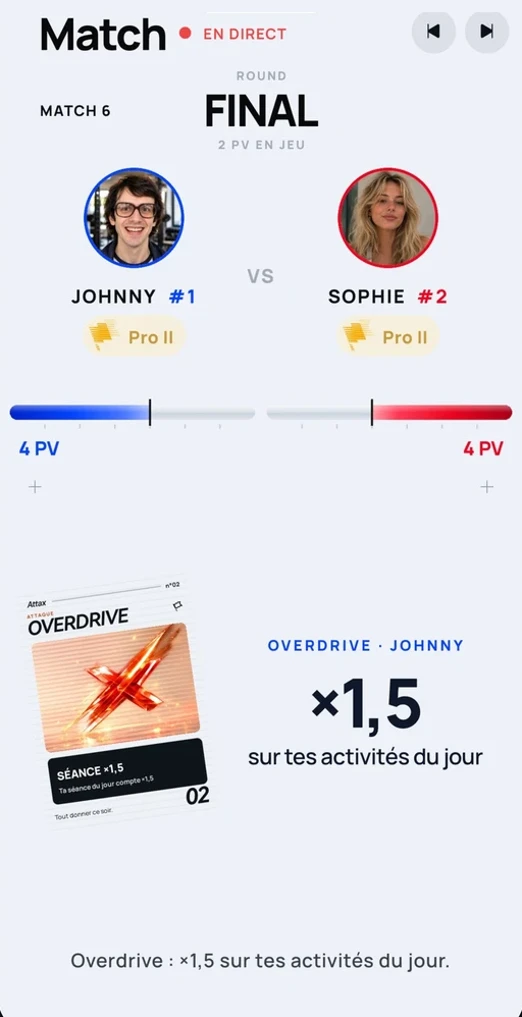
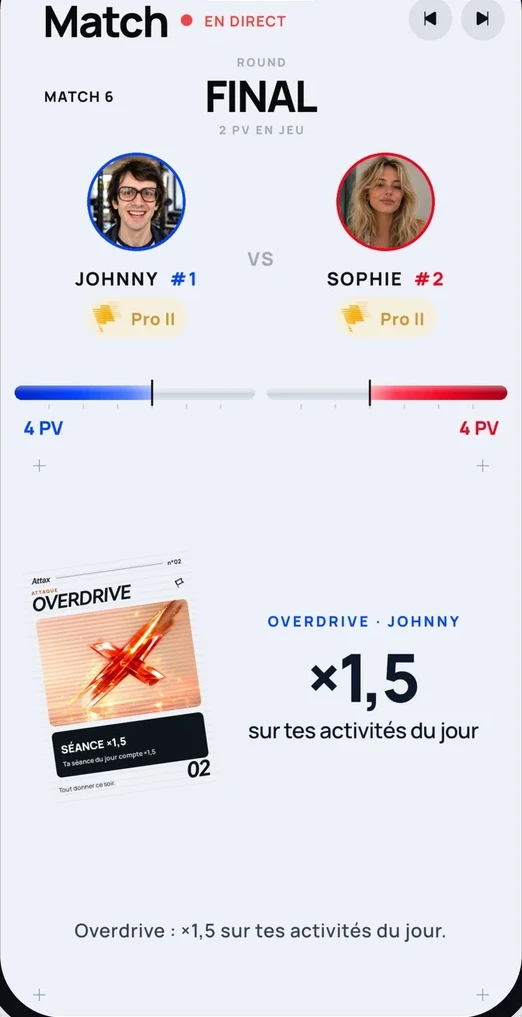
Une journée : téléphone centré et plus petit (68 % de l'écran, sous la nav), moments alternés gauche / droite, frise sous le téléphone (plus de chevauchement avec l'intro), captures recadrées (barre d'onglets à sa place) ; le match : boxeurs fondus dans le bloc, plus de bande vide en bas ; l'arène :

diff --git a/src/app/globals.css b/src/app/globals.css
@@ -998,35 +998,48 @@ footer .p-h2 { font-family: var(--font-manrope), sans-serif; font-weight: 500; f
 .pm .p-dark-cont.p-lines::before { -webkit-mask-image: radial-gradient(ellipse 80% 90% at 50% 40%, #000 30%, transparent 100%); mask-image: radial-gradient(ellipse 80% 90% at 50% 40%, #000 30%, transparent 100%); }
 .pm .cards-section.p-lines::before { -webkit-mask-image: radial-gradient(ellipse 80% 90% at 50% 70%, #000 30%, transparent 100%); mask-image: radial-gradient(ellipse 80% 90% at 50% 70%, #000 30%, transparent 100%); }
 
-/* Une journée : récit collant */
-.pm .story-connect { max-width: 340px; }
-.pm .story { display: grid; grid-template-columns: minmax(0, 1fr) minmax(0, 0.9fr); gap: 4rem; margin-top: 1rem; }
-.pm .story-step { min-height: 72vh; display: flex; flex-direction: column; justify-content: center; padding: 2rem 0; opacity: 0.28; transition: opacity 0.5s cubic-bezier(0.16,1,0.3,1); }
+/* Une journée : récit collant, téléphone centré (68 % de la hauteur d'écran au plus), moments alternés gauche / droite */
+.pm .story-head { max-width: 40rem; margin: 0 auto 3rem; text-align: center; }
+.pm .story-connect { margin: 1.75rem auto 0; max-width: 32rem; padding-top: 1.25rem; border-top: 1px solid var(--line); }
+.pm .story { display: grid; grid-template-columns: minmax(0, 1fr) auto minmax(0, 1fr); column-gap: clamp(2rem, 5vw, 4.5rem); }
+.pm .story-stick { grid-column: 2; grid-row: 1 / span var(--n); }
+.pm .story-sticky { position: sticky; top: calc(84px + (100vh - 84px - 68vh - 4.5rem) / 2); display: flex; flex-direction: column; align-items: center; gap: 1.25rem; }
+.pm .story-step { min-height: 80vh; display: flex; flex-direction: column; justify-content: center; padding: 2rem 0; opacity: 0.2; transition: opacity 0.5s cubic-bezier(0.16,1,0.3,1); }
 .pm .story-step.is-on { opacity: 1; }
+.pm .story-left { grid-column: 1; align-items: flex-end; text-align: right; }
+.pm .story-right { grid-column: 3; align-items: flex-start; text-align: left; }
 .pm .story-time { font-family: var(--font-mono), ui-monospace, monospace; font-size: 0.75rem; letter-spacing: 0.08em; text-transform: uppercase; color: var(--accent); margin: 0 0 0.9rem; }
-.pm .story-title { font-family: var(--font-manrope), sans-serif; font-weight: 500; font-size: clamp(1.9rem, 3.4vw, 3rem); letter-spacing: -0.035em; line-height: 1.05; color: var(--ink); margin: 0 0 1rem; }
-.pm .story-body { max-width: 30rem; font-size: 1rem; }
-.pm .story-stick { position: relative; }
-.pm .story-sticky { position: sticky; top: 12vh; height: 76vh; display: flex; flex-direction: column; align-items: center; justify-content: center; gap: 1.75rem; }
-.pm .story-timeline { display: flex; gap: 0.5rem; width: min(440px, 100%); }
-.pm .story-timeline span { flex: 1; display: flex; flex-direction: column; gap: 0.5rem; font-family: var(--font-mono), ui-monospace, monospace; font-size: 0.625rem; letter-spacing: 0.02em; line-height: 1.3; color: rgba(11,11,12,0.35); white-space: normal; transition: color 0.4s ease; }
+.pm .story-title { font-family: var(--font-manrope), sans-serif; font-weight: 500; font-size: clamp(1.75rem, 2.8vw, 2.5rem); letter-spacing: -0.035em; line-height: 1.05; color: var(--ink); margin: 0 0 0.9rem; }
+.pm .story-body { max-width: 24rem; font-size: 1rem; }
+.pm .story-phone { aspect-ratio: 522 / 1017; padding: 8px; border-radius: 44px; background: #0B0B0C; box-shadow: var(--shadow), 0 40px 80px -30px rgba(11,17,22,0.45); box-sizing: content-box; }
+.pm .story-phone-lg { height: 68vh; width: auto; max-width: 300px; }
+.pm .story-screen { position: relative; width: 100%; height: 100%; border-radius: 36px; overflow: hidden; background: #EEF1F7; }
+.pm .story-screen img { position: absolute; inset: 0; width: 100%; height: 100%; object-fit: cover; object-position: top; transition: opacity 0.6s cubic-bezier(0.4,0,0.2,1); }
+.pm .story-timeline { display: grid; grid-template-columns: repeat(var(--n), 1fr); gap: 0.4rem; width: 380px; }
+.pm .story-timeline span { display: flex; flex-direction: column; gap: 0.45rem; font-family: var(--font-mono), ui-monospace, monospace; font-size: 0.625rem; letter-spacing: 0.02em; line-height: 1.25; color: rgba(11,11,12,0.35); text-align: center; transition: color 0.4s ease; }
 .pm .story-timeline i { display: block; height: 2px; border-radius: 1px; background: rgba(11,11,12,0.1); transition: background 0.4s ease; }
 .pm .story-timeline .is-past { color: rgba(11,11,12,0.55); }
 .pm .story-timeline .is-past i { background: rgba(11,11,12,0.45); }
 .pm .story-timeline .is-on { color: var(--ink); }
 .pm .story-timeline .is-on i { background: var(--ink); }
-.pm .story-phone { width: min(300px, 70vw); aspect-ratio: 522 / 1017; padding: 9px; border-radius: 46px; background: #0B0B0C; box-shadow: var(--shadow), 0 40px 80px -30px rgba(11,17,22,0.45); box-sizing: content-box; }
-.pm .story-phone-lg { width: min(320px, 26vw); }
-.pm .story-screen { position: relative; width: 100%; height: 100%; border-radius: 38px; overflow: hidden; background: #EEF1F7; }
-.pm .story-screen img { position: absolute; inset: 0; width: 100%; height: 100%; object-fit: cover; object-position: top; transition: opacity 0.6s cubic-bezier(0.4,0,0.2,1); }
 .pm .story-inline { display: none; }
+@media (max-width: 1100px) { .pm .story-timeline { width: 300px; } .pm .story-phone-lg { height: 62vh; } }
 @media (max-width: 900px) {
-  .pm .story { grid-template-columns: 1fr; gap: 0; }
+  .pm .story { grid-template-columns: 1fr; }
   .pm .story-stick { display: none; }
-  .pm .story-step { min-height: 0; opacity: 1; padding: 2.5rem 0; border-top: 1px solid var(--line); }
-  .pm .story-inline { display: flex; justify-content: center; margin-top: 2rem; }
+  .pm .story-step, .pm .story-left, .pm .story-right { grid-column: 1; grid-row: auto !important; min-height: 0; opacity: 1; padding: 2.5rem 0; border-top: 1px solid var(--line); align-items: flex-start; text-align: left; }
+  .pm .story-inline { display: flex; justify-content: center; align-self: stretch; margin-top: 2rem; }
+  .pm .story-inline .story-phone { width: min(280px, 72vw); }
   .pm .story-inline .story-screen img { position: static; }
 }
+
+/* Le match : les boxeurs s'effacent proprement dans le bloc (pas de coupure), moins de marge en bas */
+.pm .mr-section { padding-bottom: calc(var(--sec) * 0.6) !important; }
+.pm .mr-boxers { height: 100% !important; transform: translate(-50%, -50%) !important; }
+.pm .mr-boxers img { height: 100% !important; -webkit-mask-image: linear-gradient(90deg, #000 0, #000 30%, rgba(0,0,0,0.16) 41%, rgba(0,0,0,0.16) 59%, #000 70%, #000 100%), linear-gradient(180deg, transparent 0, #000 14%, #000 62%, transparent 92%) !important; mask-image: linear-gradient(90deg, #000 0, #000 30%, rgba(0,0,0,0.16) 41%, rgba(0,0,0,0.16) 59%, #000 70%, #000 100%), linear-gradient(180deg, transparent 0, #000 14%, #000 62%, transparent 92%) !important; }
+
+/* L'arène : la même texture scanlines */
+.pm .arena-card.p-lines::before { z-index: 1; background: repeating-linear-gradient(to bottom, rgba(255,255,255,0.05) 0 1px, transparent 1px 4px); -webkit-mask-image: none; mask-image: none; }
 
 /* Détails : survols discrets, nav en verre, boutons « magnétiques » (léger soulèvement) */
 .pm a[href="/download"], .pm .nav-pill-cta, .pm a[href^="/download/"], .pm a[href="#how-it-works"] { transition: transform 0.25s cubic-bezier(0.16,1,0.3,1), box-shadow 0.25s ease, background-color 0.25s ease; }
@@ -1039,3 +1052,36 @@ footer .p-h2 { font-family: var(--font-manrope), sans-serif; font-weight: 500; f
   .pm .story-step, .pm .story-screen img { transition: none; }
   .pm .by-shot:hover, .pm a:hover { transform: none !important; }
 }
+
+/* PROTOTYPES (non publiés) « Tous les sports comptent » v2 */
+/* A : éditorial plein cadre, athlète grand et coupé au bord, encre nette, nom une seule fois, texture scanlines */
+.pm .spt-v2a { isolation: isolate; background: #EEF1F6 !important; }
+.pm .spt-v2a::before { content: ""; position: absolute; inset: 0; z-index: 0; pointer-events: none; background: repeating-linear-gradient(to bottom, rgba(11,17,22,0.05) 0 1px, transparent 1px 4px); }
+.pm .spt-v2a .spt-frame { z-index: 1; }
+.pm .spt-v2a .spt-photo { height: 112% !important; margin-bottom: -6% !important; filter: contrast(1.25) brightness(0.9) !important; transform: translateX(8%); }
+.pm .spt-v2a .spt-name { font-weight: 500 !important; font-size: clamp(2.2rem, 3.6vw, 3.25rem) !important; letter-spacing: -0.04em !important; }
+.pm .spt-v2a .spt-name-wrap { height: clamp(2.6rem, 4.2vw, 3.8rem) !important; }
+.pm .spt-v2a .spt-stage-bottom { z-index: 3; }
+.pm .spt-v2a .spt-seg-bg, .pm .spt-v2a .spt-seg-fill { height: 1px !important; }
+/* B : la bande de toutes les disciplines, la discipline active s'ouvre */
+.pm .spt-strip { display: flex; gap: 8px; height: min(640px, 72vh); }
+.pm .spt-strip-item { all: unset; position: relative; flex: 1 1 0; min-width: 0; border-radius: 20px; overflow: hidden; background: #EEF1F6; cursor: pointer; transition: flex-grow 0.7s cubic-bezier(0.16,1,0.3,1), background 0.4s ease; }
+.pm .spt-strip-item.is-on { flex-grow: 7; }
+.pm .spt-strip-item:not(.is-on):hover { background: #E4E8EF; }
+.pm .spt-strip-img { position: absolute; left: 50%; bottom: 0; height: 88%; width: auto; max-width: none; transform: translateX(-50%); filter: contrast(1.2) brightness(0.92); transition: opacity 0.5s ease; }
+.pm .spt-strip-item:not(.is-on) .spt-strip-img { opacity: 0.35; }
+.pm .spt-strip-item::before { content: ""; position: absolute; inset: 0; pointer-events: none; background: repeating-linear-gradient(to bottom, rgba(11,17,22,0.045) 0 1px, transparent 1px 4px); }
+.pm .spt-strip-cap { position: absolute; left: 14px; bottom: 16px; display: flex; gap: 10px; align-items: baseline; white-space: nowrap; font-weight: 500; font-size: 1.5rem; letter-spacing: -0.03em; color: #0B0B0C; opacity: 0; transition: opacity 0.4s ease 0.2s; }
+.pm .spt-strip-cap b { font-family: var(--font-mono), ui-monospace, monospace; font-weight: 400; font-size: 0.6875rem; letter-spacing: 0.06em; color: #6B6F76; }
+.pm .spt-strip-item.is-on .spt-strip-cap { opacity: 1; }
+.pm .spt-strip-item:not(.is-on)::after { content: attr(aria-label); position: absolute; left: 50%; bottom: 18px; transform: translateX(-50%) rotate(-90deg); transform-origin: center; white-space: nowrap; font-size: 0.6875rem; font-weight: 500; color: #6B6F76; width: 0; display: flex; justify-content: flex-start; }
+.pm .spt-strip-any { position: absolute; inset: 0; display: flex; align-items: center; justify-content: center; font-weight: 500; font-size: 2.25rem; letter-spacing: -0.04em; color: #0A3DFF; }
+.pm .spt-strip-item:not(.is-on) .spt-strip-any { opacity: 0; }
+@media (max-width: 900px) { .pm .spt-strip { height: 460px; gap: 5px; } .pm .spt-strip-item.is-on { flex-grow: 9; } .pm .spt-strip-item { border-radius: 14px; } }
+
+/* PROTOTYPES (non publiés) du titre du hero */
+.pm .p-h1-A, .pm .p-h1-B { max-width: none; font-size: clamp(3.4rem, 7.2vw, 7rem); line-height: 0.95; letter-spacing: -0.05em; font-weight: 600; }
+.pm .p-h1 .l1, .pm .p-h1 .l2 { display: block; }
+.pm .p-h1-A .l2 { font-family: var(--font-serif), Georgia, serif; font-style: italic; font-weight: 400; letter-spacing: -0.02em; color: #C9D5F0; font-size: 1.08em; }
+.pm .p-h1-B .l1 { color: transparent; background: repeating-linear-gradient(to bottom, #fff 0 0.055em, transparent 0.055em 0.1em); -webkit-background-clip: text; background-clip: text; }
+.pm .p-h1-B .l2 { color: #fff; }

diff --git a/src/components/home/HowItWorks.tsx b/src/components/home/HowItWorks.tsx
@@ -35,41 +35,30 @@ export default function HowItWorks() {
   return (
     <section id="how-it-works" className="p-section story-section">
       <div className="p-wrap">
-        <div ref={headerRef} className="p-head">
-          <div>
-            <p className="p-label" style={fadeUp(headerVisible, 0)}>{h.label}</p>
-            <h2 className="p-h2">
-              <div><span style={clipReveal(headerVisible, 0)}>{h.h2[0]}</span></div>
-              <div><span style={clipReveal(headerVisible, 120)}>{h.h2[1]}</span></div>
-            </h2>
-          </div>
+        <div ref={headerRef} className="story-head">
+          <p className="p-label" style={fadeUp(headerVisible, 0)}>{h.label}</p>
+          <h2 className="p-h2">
+            <div><span style={clipReveal(headerVisible, 0)}>{h.h2[0]}</span></div>
+            <div><span style={clipReveal(headerVisible, 120)}>{h.h2[1]}</span></div>
+          </h2>
           <div className="story-connect" style={fadeUp(headerVisible, 240)}>
-            <p className="p-label" style={{ marginBottom: "0.5rem" }}>{connect.time} · {connect.title.replace(/\.$/, "")}</p>
+            <p className="story-time" style={{ marginBottom: "0.4rem" }}>{connect.time} · {connect.title.replace(/\.$/, "")}</p>
             <p className="p-body">{connect.body}</p>
           </div>
         </div>
 
-        <div className="story">
-          <div className="story-steps">
-            {steps.map((s, i) => (
-              <div key={i} ref={(el) => { refs.current[i] = el; }} data-i={i} className={i === active ? "story-step is-on" : "story-step"}>
-                <p className="story-time">{s.time}</p>
-                <h3 className="story-title">{s.title}</h3>
-                <p className="p-body story-body">{s.body}</p>
-                {/* Téléphone : la capture sous le texte */}
-                <div className="story-inline">
-                  <div className="story-phone">
-                    <div className="story-screen">
-                      <Image src={`/screens/story/${lang}/${SHOTS[i]}.webp`} alt={s.title} width={522} height={1017} sizes="70vw" />
-                    </div>
-                  </div>
-                </div>
-              </div>
-            ))}
-          </div>
-
+        {/* Le téléphone au centre, collant ; les moments de la journée alternent à gauche et à droite */}
+        <div className="story" style={{ ["--n" as string]: steps.length }}>
           <div className="story-stick" aria-hidden="true">
             <div className="story-sticky">
+              <div className="story-phone story-phone-lg">
+                <div className="story-screen">
+                  {steps.map((s, i) => (
+                    <Image key={i} src={`/screens/story/${lang}/${SHOTS[i]}.webp`} alt="" width={522} height={1017} sizes="300px"
+                      loading={i === 0 ? "eager" : "lazy"} style={{ opacity: i === active ? 1 : 0 }} />
+                  ))}
+                </div>
+              </div>
               <div className="story-timeline">
                 {steps.map((s, i) => (
                   <span key={i} className={i === active ? "is-on" : i < active ? "is-past" : undefined}>
@@ -77,16 +66,25 @@ export default function HowItWorks() {
                   </span>
                 ))}
               </div>
-              <div className="story-phone story-phone-lg">
-                <div className="story-screen">
-                  {steps.map((s, i) => (
-                    <Image key={i} src={`/screens/story/${lang}/${SHOTS[i]}.webp`} alt="" width={522} height={1017} sizes="340px"
-                      loading={i === 0 ? "eager" : "lazy"} style={{ opacity: i === active ? 1 : 0 }} />
-                  ))}
+            </div>
+          </div>
+
+          {steps.map((s, i) => (
+            <div key={i} ref={(el) => { refs.current[i] = el; }} data-i={i}
+              className={`story-step ${i % 2 ? "story-right" : "story-left"}${i === active ? " is-on" : ""}`} style={{ gridRow: i + 1 }}>
+              <p className="story-time">{s.time}</p>
+              <h3 className="story-title">{s.title}</h3>
+              <p className="p-body story-body">{s.body}</p>
+              {/* Téléphone : la capture sous le texte */}
+              <div className="story-inline">
+                <div className="story-phone">
+                  <div className="story-screen">
+                    <Image src={`/screens/story/${lang}/${SHOTS[i]}.webp`} alt={s.title} width={522} height={1017} sizes="70vw" />
+                  </div>
                 </div>
               </div>
             </div>
-          </div>
+          ))}
         </div>
       </div>
     </section>

diff --git a/src/app/press/content.ts b/src/app/press/content.ts
@@ -191,7 +191,7 @@ export const PRESS_CONTENT: Record<"en" | "fr", PressContent> = {
     texts_sub: "Utilise-les tels quels ou adapte-les à ton format.",
     texts: [
       { label: "En une phrase", body: "Attax est le jeu de fitness gratuit qui transforme tes vraies séances en duels de boxe quotidiens : ta montre mesure ton effort, ton boxeur frappe." },
-      { label: "En un paragraphe", body: "Sport is now a game. Attax transforme tes vraies séances en duels de boxe quotidiens. Ta montre mesure ton effort via Apple Santé ou Health Connect, et tes séances et tes pas deviennent des pts. Chaque jour, tu affrontes un nouveau joueur de ta ligue dans un match en 7 rounds : tes 6 jours d'avant, plus aujourd'hui. À 21h30, le Soir de combat : entrée des boxeurs, cartes retournées, et le round final décide. Joue une carte chaque matin, gagne ta ligue et passe de Rookie à Legend. Gratuit sur iPhone et Android, sans publicité." },
+      { label: "En un paragraphe", body: "Le sport devient un jeu. Attax transforme tes vraies séances en duels de boxe quotidiens. Ta montre mesure ton effort via Apple Santé ou Health Connect, et tes séances et tes pas deviennent des pts. Chaque jour, tu affrontes un nouveau joueur de ta ligue dans un match en 7 rounds : tes 6 jours d'avant, plus aujourd'hui. À 21h30, le Soir de combat : entrée des boxeurs, cartes retournées, et le round final décide. Joue une carte chaque matin, gagne ta ligue et passe de Rookie à Legend. Gratuit sur iPhone et Android, sans publicité." },
       { label: "Version longue", body: "La plupart des applications fitness s'arrêtent au suivi : des chiffres que personne d'autre ne voit, aucun enjeu. Attax donne une raison d'être à chaque séance. Les joueurs connectent une montre, un bracelet ou une ceinture thoracique via Apple Santé (iPhone) ou Health Connect (Android), et leurs vraies séances et leurs pas deviennent des pts. C'est l'intensité qui paie, pas seulement le volume.\n\nLes joueurs rejoignent une ligue de 8 de leur niveau : 7 jours, un nouvel adversaire chaque jour, 1 champion qui repart avec la couronne. Un match se joue en 7 rounds : les 6 jours d'avant, plus aujourd'hui. Chaque jour est un round, gagné par celui qui a le plus de pts ; chaque round perdu coûte des PV, et celui qui garde le plus de PV gagne. Jamais de match nul. Les rounds passés se dévoilent un par un de 10h à 17h30, le round final se joue en direct dès 19h, et à 21h30 vient le Soir de combat : entrée des boxeurs, rounds rejoués, cartes retournées, puis le round final décide. Chaque matin, 3 cartes sont tirées, les mêmes pour les deux joueurs (Attaque, Défense, Sabotage ou Ruse) et le choix de l'adversaire reste secret jusqu'à 21h30.\n\nLes joueurs peuvent rejoindre des ligues au hasard à leur niveau, des ligues classées entre amis ou des ligues personnalisées de 2 à 40. Un rang les suit de Rookie à Legend, une saison mondiale récompense chaque pt d'effort, et leur profil réunit série, coups débloqués, badges et trophées. Attax fonctionne avec tous les sports mesurés par la montre, et chaque ligue se joue à son heure locale. L'app est gratuite, sans publicité." },
     ],
     copy_btn: "Copier",

diff --git a/src/components/home/ArenaSection.tsx b/src/components/home/ArenaSection.tsx
@@ -12,7 +12,7 @@ export default function ArenaSection() {
   const bgRef = useParallax(0.06);
 
   return (
-    <section className="arena-wrap"><div className="arena-card" style={{ position: "relative", backgroundColor: "#0B0B0C", minHeight: "78vh", display: "flex", alignItems: "center", overflow: "hidden" }}>
+    <section className="arena-wrap"><div className="arena-card p-lines" style={{ position: "relative", backgroundColor: "#0B0B0C", minHeight: "78vh", display: "flex", alignItems: "center", overflow: "hidden" }}>
       <div ref={bgRef} style={{ position: "absolute", inset: "-10%", zIndex: 0 }}>
         <Image src="/images/sport/033-A.jpg" alt="Runner training at night" fill sizes="100vw" style={{ objectFit: "cover", objectPosition: "center 45%", filter: "grayscale(100%) contrast(1.05) brightness(0.6)" }} />
       </div>

diff --git a/src/lib/translations.ts b/src/lib/translations.ts
@@ -405,7 +405,7 @@ export const T = {
       contact: "Contact",
     },
     hero: {
-      h1: ["Sport is now", "a game."],
+      h1: ["Le sport devient", "un jeu."],
       kicker: ["Chaque jour", "un nouvel adversaire"],
       sports: "Course · Vélo · Musculation · Jeu · Marche",
       subtitle: "Ta montre mesure. Ton boxeur frappe.\nChaque soir à 21h30, le round final.",
@@ -638,7 +638,7 @@ export const T = {
         { label: "Jeu Health Connect", href: "/health-connect-fitness-game" },
       ],
       col_resources: "Ressources",
-      copyright: "© 2026 ATTAX SAS. Sport is now a game.",
+      copyright: "© 2026 ATTAX SAS. Le sport devient un jeu.",
     },
     discover: {
       hero_label: "DÉCOUVRIR ATTAX",
